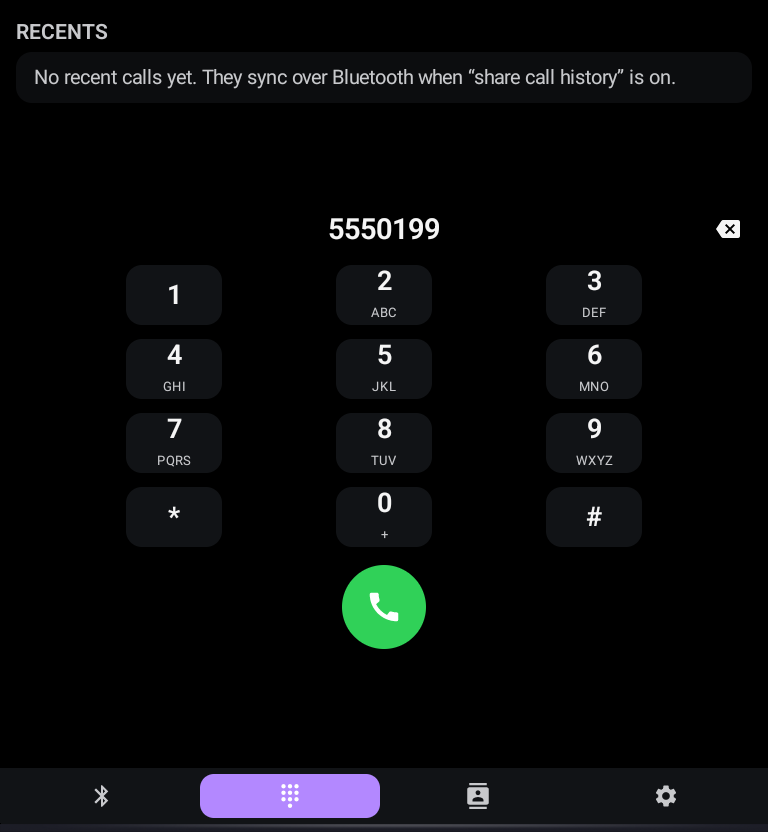
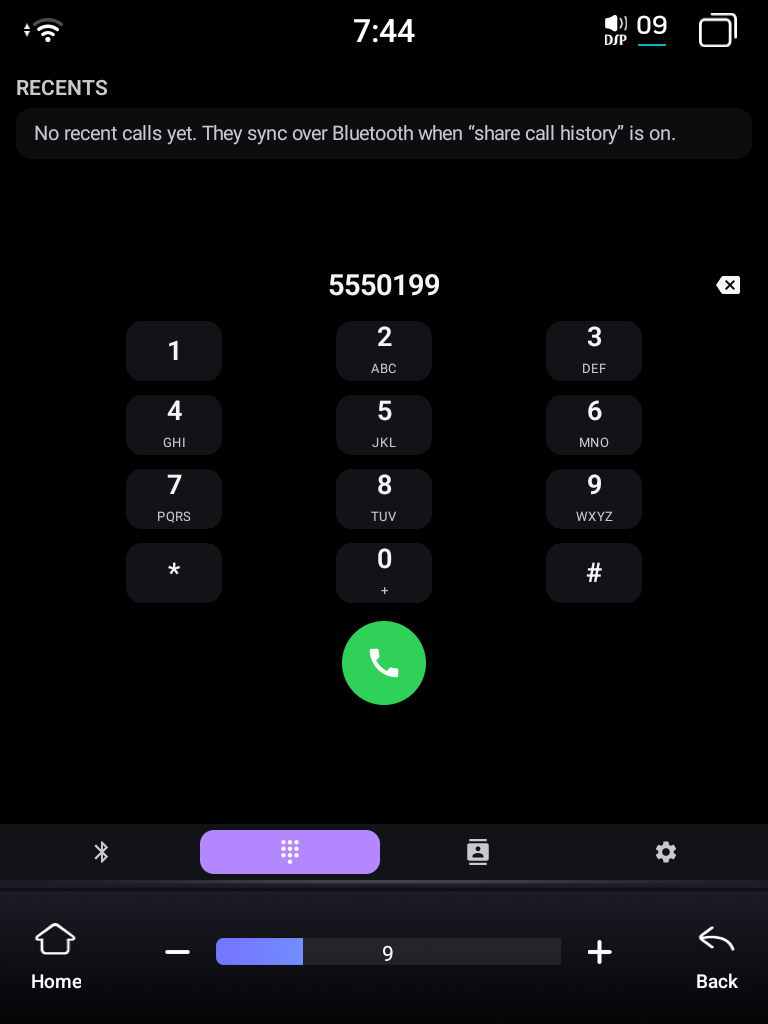
Default theme to System; full uncropped screenshots (demo devices, "Toyota Rav4")
- Theme now defaults to System (follow the unit's day/night) instead of Dark.
- Screenshots: stop cropping - all four are now full device frames (status +
  nav bars). The settings shot shows the demo paired devices (iPhone 17 Pro /
  Pixel 10, placeholder MACs) and broadcast name "Toyota Rav4". Dropped the
  separate light-mode shot. README regrouped into a 2x2 of full screenshots.

Builds on the other instance's Material You / custom-color-picker work (beea129).

diff --git a/app/src/main/kotlin/com/fytbt/MainActivity.kt b/app/src/main/kotlin/com/fytbt/MainActivity.kt
@@ -49,8 +49,8 @@ class MainActivity : ComponentActivity() {
         prefs.edit().putBoolean(NowPlayingController.KEY_CLAIM_ON_OPEN, enabled).apply()
     }
 
-    // Light / dark / follow-system. Default dark (the app was designed dark for night driving).
-    private val themeMode = MutableStateFlow(ThemeMode.DARK)
+    // Light / dark / follow-system. Default System so the unit's day/night drives it.
+    private val themeMode = MutableStateFlow(ThemeMode.SYSTEM)
     private fun setThemeMode(mode: ThemeMode) {
         themeMode.value = mode
         prefs.edit().putString("theme_mode", mode.name).apply()
@@ -143,8 +143,8 @@ class MainActivity : ComponentActivity() {
         fallbackAccent.value = prefs.getInt("fallback_accent", DEFAULT_ACCENT)
         claimOnOpen.value = prefs.getBoolean(NowPlayingController.KEY_CLAIM_ON_OPEN, true)
         themeMode.value = runCatching {
-            ThemeMode.valueOf(prefs.getString("theme_mode", ThemeMode.DARK.name)!!)
-        }.getOrDefault(ThemeMode.DARK)
+            ThemeMode.valueOf(prefs.getString("theme_mode", ThemeMode.SYSTEM.name)!!)
+        }.getOrDefault(ThemeMode.SYSTEM)
         dynamicColor.value = prefs.getBoolean("dynamic_color", false)
 
         setContent {

diff --git a/README.md b/README.md
@@ -9,23 +9,21 @@ apps rather than replacing them.
 
 ## Screenshots
 
-<p align="center"><img src="screenshots/now_playing.png" width="300" alt="Now Playing"></p>
-
 <p align="center">
-  <img src="screenshots/bluetooth.png" width="240" alt="Settings / pairing — dark">
+  <img src="screenshots/now_playing.png" width="235" alt="Now Playing">
   &nbsp;
-  <img src="screenshots/settings_light.png" width="240" alt="Settings / pairing — light">
+  <img src="screenshots/bluetooth.png" width="235" alt="Settings / pairing">
 </p>
 
 <p align="center">
-  <img src="screenshots/dialer.png" width="240" alt="Dialer">
+  <img src="screenshots/dialer.png" width="235" alt="Dialer">
   &nbsp;
-  <img src="screenshots/contacts.png" width="240" alt="Contacts">
+  <img src="screenshots/contacts.png" width="235" alt="Contacts">
 </p>
 
-<sub>Now Playing (no-art accent fallback shown), the settings/pairing pane in dark and light themes —
-the chosen accent drives every control, and the theme is Light / Dark / System — then the dialer and
-contacts. Device names and addresses are placeholders.</sub>
+<sub>Now Playing (no-art accent fallback shown), the settings/pairing pane (the chosen accent drives
+every control; theme is Light / Dark / System, with optional Material You), the dialer, and contacts.
+Paired-device names and addresses are placeholders.</sub>
 
 ## Why this exists
 
